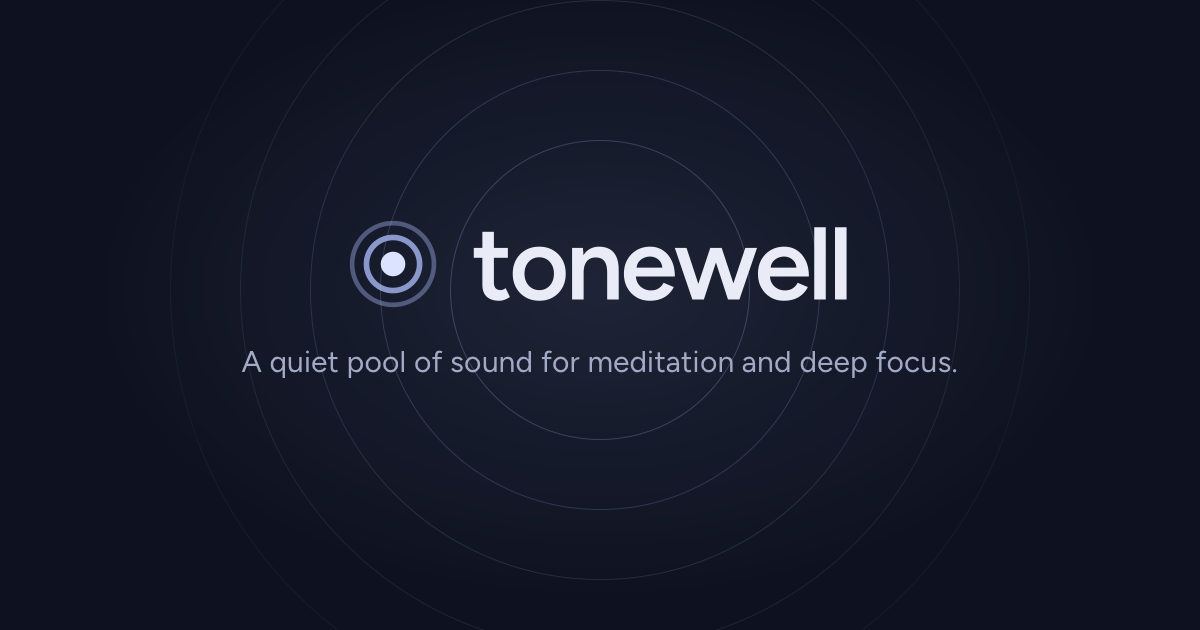
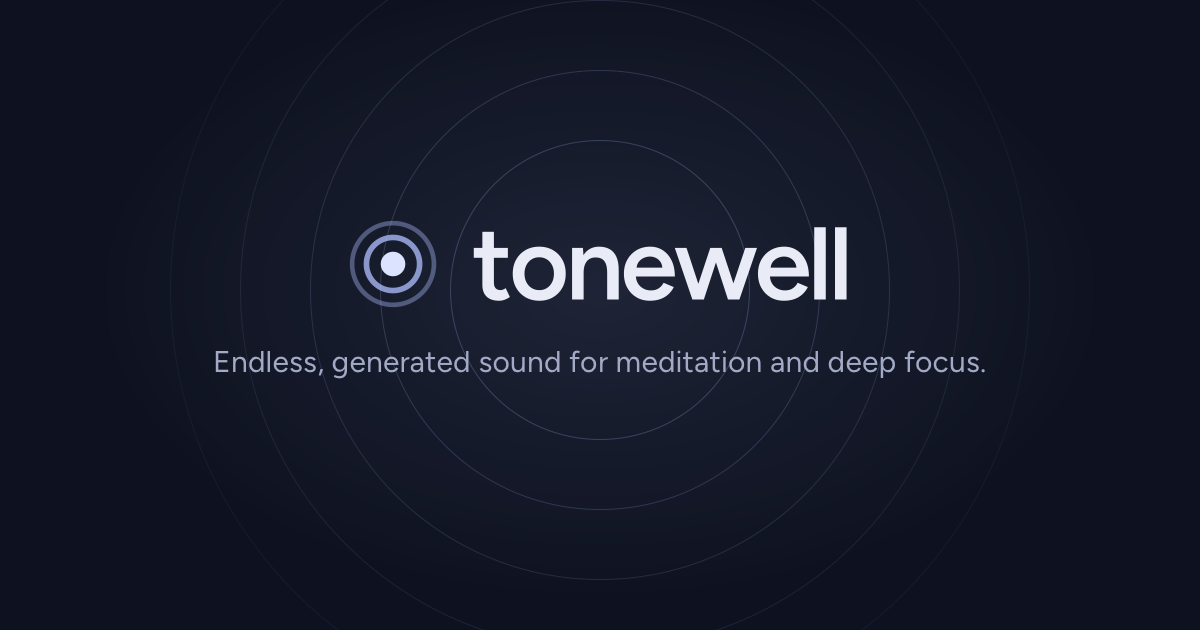
fix(site): plainer, accurate copy and phrase-aware headings
Rewrites the page in plainer words and corrects claims the app doesn't
back up: softening reacts to any microphone in use and is off by
default, headphone and media keys work only while a session plays, the
Learn quote cites six sources, bells aren't sparse and wind isn't one
slow gust. Adds the headphones-out behavior, the visuals' flicker limit,
the contact address and "Not a medical device".

Headings break between phrases instead of mid-phrase. The mock players
are one labelled image each, so screen readers and the keyboard skip
their dead buttons. The beats section collapses to one column on
phones, and the cards fit down to 320 px.

Changed region(s): [[0.185, 0.5429, 0.8325, 0.6032]]

diff --git a/site/index.html b/site/index.html
@@ -3,16 +3,16 @@
 <head>
 <meta charset="utf-8">
 <meta name="viewport" content="width=device-width, initial-scale=1">
-<title>Tonewell: a quiet pool of sound for meditation and deep focus</title>
-<meta name="description" content="Endless drones, rain, bells and a wordless choir, made live on your Mac. For meditation and deep focus. No accounts, nothing streamed.">
+<title>Tonewell: endless, generated sound for meditation and focus</title>
+<meta name="description" content="A Mac app that synthesizes drones, rain, brown noise and bells as you listen, for meditation and deep focus. Open source. No accounts, nothing streamed.">
 <meta name="theme-color" content="#0E1220">
 <link rel="icon" href="assets/tonewell-mark.svg" type="image/svg+xml">
 <link rel="canonical" href="https://tonewell.space/">
 <meta property="og:type" content="website">
 <meta property="og:url" content="https://tonewell.space/">
 <meta property="og:site_name" content="Tonewell">
-<meta property="og:title" content="Tonewell: a quiet pool of sound">
-<meta property="og:description" content="Endless drones, rain, bells and a wordless choir, made live on your Mac. For meditation and deep focus.">
+<meta property="og:title" content="Tonewell: sound for when silence won’t do">
+<meta property="og:description" content="Drones, rain, brown noise, bells and a wordless choir, synthesized on your Mac as you listen. For meditation and deep focus.">
 <meta property="og:image" content="https://tonewell.space/og.png">
 <meta property="og:image:width" content="1200">
 <meta property="og:image:height" content="630">
@@ -25,44 +25,44 @@
 <body class="tw">
 <div class="wrap">
 <header class="nav"><a href="/" aria-label="Tonewell home"><img src="assets/tonewell-lockup.svg" alt="tonewell" style="height:30px;display:block"></a>
-<nav class="nav__links" aria-label="Site"><a href="#how">How it works</a><a href="#science">The science</a><a class="cta cta--sm" href="#download">Coming soon</a></nav></header>
+<nav class="nav__links" aria-label="Site"><a href="#how">How it works</a><a href="#science">The evidence</a><a class="cta cta--sm" href="#download">Coming soon</a></nav></header>
 
 <main>
 <section class="hero">
 <div>
 <span class="eyebrow-s">For meditation and deep focus · macOS</span>
-<h1>A quiet pool of sound. Touch it once.</h1>
-<p>Drones, rain, bells and a wordless choir, made live on your Mac and never quite the same twice. Press the light and close your eyes.</p>
-<div class="hero__ctas"><button class="cta" type="button" data-taste aria-describedby="taste-note"><svg class="icon icon--fill taste__play" viewBox="0 0 24 24" aria-hidden="true"><path d="M8.5 5.5v13l10-6.5z"/></svg><svg class="icon icon--fill taste__stop" viewBox="0 0 24 24" aria-hidden="true"><rect x="7" y="7" width="10" height="10" rx="2"/></svg><span data-taste-label>Hear a taste</span></button><a class="cta cta--ghost" href="#download">Coming soon for Mac</a></div>
-<div class="hero__note" id="taste-note"><svg class="icon" viewBox="0 0 24 24" aria-hidden="true"><path d="M4.5 15v-3a7.5 7.5 0 0 1 15 0v3"/><rect x="3.5" y="14" width="4" height="6" rx="1.6"/><rect x="16.5" y="14" width="4" height="6" rx="1.6"/></svg>Thirty seconds of Deep Theta, faded in and out. Best with headphones.</div>
+<h1><span class="ph">Sound for when</span> <span class="ph">silence won’t do.</span></h1>
+<p><span class="ph">Drones, rain, bells and a wordless choir,</span> <span class="ph">synthesized on your Mac and never the same twice.</span> <span class="ph">For meditating with a busy mind, and for deep work.</span></p>
+<div class="hero__ctas"><button class="cta" type="button" data-taste aria-describedby="taste-note"><svg class="icon icon--fill taste__play" viewBox="0 0 24 24" aria-hidden="true"><path d="M8.5 5.5v13l10-6.5z"/></svg><svg class="icon icon--fill taste__stop" viewBox="0 0 24 24" aria-hidden="true"><rect x="7" y="7" width="10" height="10" rx="2"/></svg><span data-taste-label>Hear a taste</span></button><a class="cta cta--ghost" href="https://github.com/sethatwood/tonewell">Follow on GitHub</a></div>
+<div class="hero__note" id="taste-note"><svg class="icon" viewBox="0 0 24 24" aria-hidden="true"><path d="M4.5 15v-3a7.5 7.5 0 0 1 15 0v3"/><rect x="3.5" y="14" width="4" height="6" rx="1.6"/><rect x="16.5" y="14" width="4" height="6" rx="1.6"/></svg>Thirty seconds of Deep Theta from the real engine, faded in and out. Best with headphones.</div>
 </div>
-<div class="hero__art"><div class="rings" aria-hidden="true"><span style="inset:0px;border-color:rgba(var(--accent-rgb),0.06)"></span><span style="inset:50px;border-color:rgba(var(--accent-rgb),0.09)"></span><span style="inset:100px;border-color:rgba(var(--accent-rgb),0.13)"></span><span style="inset:150px;border-color:rgba(var(--accent-rgb),0.18)"></span></div><div class="player" data-mode="meditate" data-phase="playing" data-tasting="false"><div class="player__main"><button class="ripple" aria-label="14 minutes left"><span class="ripple__glow" aria-hidden="true"></span><span class="ripple__ring" aria-hidden="true"></span><span class="ripple__ring ripple__ring--inner" aria-hidden="true"></span><span class="ripple__core"><span class="ripple__num">14</span><span class="ripple__unit">min left</span></span></button><div class="player__body"><div class="player__top"><button class="eyebrow" aria-haspopup="dialog" aria-label="Meditate: choose a sound">Meditate<svg class="icon" viewBox="0 0 24 24" aria-hidden="true"><path d="M7 10l5 5 5-5"/></svg></button><div class="player__tools"><button class="icon-btn" aria-label="Shape the sound" title="Shape the sound"><svg class="icon" viewBox="0 0 24 24" aria-hidden="true"><circle cx="12" cy="12" r="8.5" stroke-opacity=".45"/><circle cx="12" cy="12" r="4.5"/><circle cx="14.5" cy="9.5" r="1.6" fill="currentColor"/></svg></button><button class="icon-btn" aria-label="Open visuals" title="Open visuals"><svg class="icon" viewBox="0 0 24 24" aria-hidden="true"><circle cx="12" cy="12" r="3.2"/><path d="M12 3.5v2M12 18.5v2M3.5 12h2M18.5 12h2M6 6l1.4 1.4M16.6 16.6 18 18M6 18l1.4-1.4M16.6 7.4 18 6"/></svg></button><button class="icon-btn" aria-label="Field guide" aria-keyshortcuts="?" title="Field guide"><svg class="icon" viewBox="0 0 24 24" aria-hidden="true"><circle cx="12" cy="12" r="8.5"/><path d="M9.7 9.6a2.4 2.4 0 1 1 3.3 2.2c-.6.3-1 .8-1 1.5v.3"/><circle cx="12" cy="16.6" r=".5" fill="currentColor"/></svg></button></div></div><div class="player__name">Deep Theta</div><div class="hint" aria-hidden="true">Ends 07:32, then a bell and a rest.</div><div class="player__actions"><button class="chip chip--action" aria-keyshortcuts="Escape">Wind down<kbd class="kbd">esc</kbd></button><button class="chip " aria-label="Volume 60 percent, on headphones" aria-haspopup="true"><svg class="icon" viewBox="0 0 24 24" aria-hidden="true"><path d="M4.5 15v-3a7.5 7.5 0 0 1 15 0v3"/><rect x="3.5" y="14" width="4" height="6" rx="1.6"/><rect x="16.5" y="14" width="4" height="6" rx="1.6"/></svg><span class="num">60%</span></button></div></div></div></div></div>
+<div class="hero__art"><div class="rings" aria-hidden="true"><span style="inset:0px;border-color:rgba(var(--accent-rgb),0.06)"></span><span style="inset:50px;border-color:rgba(var(--accent-rgb),0.09)"></span><span style="inset:100px;border-color:rgba(var(--accent-rgb),0.13)"></span><span style="inset:150px;border-color:rgba(var(--accent-rgb),0.18)"></span></div><div class="player" data-mode="meditate" data-phase="playing" data-tasting="false" role="img" aria-label="The Tonewell player: Deep Theta, 14 minutes left, ends with a bell and a rest"><div class="player__main" inert aria-hidden="true"><button class="ripple" aria-label="14 minutes left"><span class="ripple__glow" aria-hidden="true"></span><span class="ripple__ring" aria-hidden="true"></span><span class="ripple__ring ripple__ring--inner" aria-hidden="true"></span><span class="ripple__core"><span class="ripple__num">14</span><span class="ripple__unit">min left</span></span></button><div class="player__body"><div class="player__top"><button class="eyebrow" aria-haspopup="dialog" aria-label="Meditate: choose a sound">Meditate<svg class="icon" viewBox="0 0 24 24" aria-hidden="true"><path d="M7 10l5 5 5-5"/></svg></button><div class="player__tools"><button class="icon-btn" aria-label="Shape the sound" title="Shape the sound"><svg class="icon" viewBox="0 0 24 24" aria-hidden="true"><circle cx="12" cy="12" r="8.5" stroke-opacity=".45"/><circle cx="12" cy="12" r="4.5"/><circle cx="14.5" cy="9.5" r="1.6" fill="currentColor"/></svg></button><button class="icon-btn" aria-label="Open visuals" title="Open visuals"><svg class="icon" viewBox="0 0 24 24" aria-hidden="true"><circle cx="12" cy="12" r="3.2"/><path d="M12 3.5v2M12 18.5v2M3.5 12h2M18.5 12h2M6 6l1.4 1.4M16.6 16.6 18 18M6 18l1.4-1.4M16.6 7.4 18 6"/></svg></button><button class="icon-btn" aria-label="Field guide" aria-keyshortcuts="?" title="Field guide"><svg class="icon" viewBox="0 0 24 24" aria-hidden="true"><circle cx="12" cy="12" r="8.5"/><path d="M9.7 9.6a2.4 2.4 0 1 1 3.3 2.2c-.6.3-1 .8-1 1.5v.3"/><circle cx="12" cy="16.6" r=".5" fill="currentColor"/></svg></button></div></div><div class="player__name">Deep Theta</div><div class="hint" aria-hidden="true">Ends 07:32, then a bell and a rest.</div><div class="player__actions"><button class="chip chip--action" aria-keyshortcuts="Escape">Wind down<kbd class="kbd">esc</kbd></button><button class="chip " aria-label="Volume 60 percent, on headphones" aria-haspopup="true"><svg class="icon" viewBox="0 0 24 24" aria-hidden="true"><path d="M4.5 15v-3a7.5 7.5 0 0 1 15 0v3"/><rect x="3.5" y="14" width="4" height="6" rx="1.6"/><rect x="16.5" y="14" width="4" height="6" rx="1.6"/></svg><span class="num">60%</span></button></div></div></div></div></div>
 </section>
 
 <section class="band" id="how">
-<span class="eyebrow-s">Two ways in</span>
-<h2>The same good sound as yesterday, in one press.</h2>
-<p class="lead">Tonewell remembers your sound and your length for each of the two things it is for. Most days there is nothing to decide.</p>
+<span class="eyebrow-s">Two modes</span>
+<h2><span class="ph">One click starts the sound</span> <span class="ph">you used yesterday.</span></h2>
+<p class="lead">Meditate and Focus each remember their own sound, length and beat. Most days there is nothing to decide.</p>
 <div class="two">
-<div class="card"><div class="player" data-mode="meditate" data-phase="ready"><div class="player__main"><button class="ripple" aria-label="Start"><span class="ripple__glow" aria-hidden="true"></span><span class="ripple__ring" aria-hidden="true"></span><span class="ripple__ring ripple__ring--inner" aria-hidden="true"></span><span class="ripple__core"><svg class="icon icon--fill" viewBox="0 0 24 24" aria-hidden="true"><path d="M8.5 5.5v13l10-6.5z"/></svg></span></button><div class="player__body"><div class="player__top"><button class="eyebrow" aria-haspopup="dialog" aria-label="Meditate: choose a sound">Meditate<svg class="icon" viewBox="0 0 24 24" aria-hidden="true"><path d="M7 10l5 5 5-5"/></svg></button><div class="player__tools"><button class="icon-btn" aria-label="Shape the sound" title="Shape the sound"><svg class="icon" viewBox="0 0 24 24" aria-hidden="true"><circle cx="12" cy="12" r="8.5" stroke-opacity=".45"/><circle cx="12" cy="12" r="4.5"/><circle cx="14.5" cy="9.5" r="1.6" fill="currentColor"/></svg></button><button class="icon-btn" aria-label="Open visuals" title="Open visuals"><svg class="icon" viewBox="0 0 24 24" aria-hidden="true"><circle cx="12" cy="12" r="3.2"/><path d="M12 3.5v2M12 18.5v2M3.5 12h2M18.5 12h2M6 6l1.4 1.4M16.6 16.6 18 18M6 18l1.4-1.4M16.6 7.4 18 6"/></svg></button><button class="icon-btn" aria-label="Field guide" aria-keyshortcuts="?" title="Field guide"><svg class="icon" viewBox="0 0 24 24" aria-hidden="true"><circle cx="12" cy="12" r="8.5"/><path d="M9.7 9.6a2.4 2.4 0 1 1 3.3 2.2c-.6.3-1 .8-1 1.5v.3"/><circle cx="12" cy="16.6" r=".5" fill="currentColor"/></svg></button></div></div><div class="player__name">Deep Theta</div><div class="hint" aria-hidden="true">Wandering drone, breath, slow bells.</div><div class="player__actions"><button class="chip "><svg class="icon" viewBox="0 0 24 24" aria-hidden="true"><circle cx="12" cy="12" r="8.5"/><path d="M12 7.5V12l3 2"/></svg><span class="num">20</span> min</button><button class="chip "><svg class="icon" viewBox="0 0 24 24" aria-hidden="true"><path d="M3 12c2-5 4-5 6 0s4 5 6 0 4-5 6 0"/></svg>Settle</button></div></div></div></div><h3>Meditate</h3><p>A slowly changing bed that is not musical enough to follow, so a restless mind has somewhere soft to rest while the practice does the work. A single bell at the end, a couple of minutes in a low hum, then a slow fade.</p></div>
-<div class="card" data-mode="focus"><div class="player" data-mode="focus" data-phase="playing"><div class="player__main"><button class="ripple" aria-label="31 minutes to the break"><span class="ripple__glow" aria-hidden="true"></span><span class="ripple__ring" aria-hidden="true"></span><span class="ripple__ring ripple__ring--inner" aria-hidden="true"></span><span class="ripple__core"><span class="ripple__num">31</span><span class="ripple__unit">to break</span></span></button><div class="player__body"><div class="player__top"><span class="eyebrow">Focus · block 2</span><div class="player__tools"><button class="icon-btn" aria-label="Shape the sound" title="Shape the sound"><svg class="icon" viewBox="0 0 24 24" aria-hidden="true"><circle cx="12" cy="12" r="8.5" stroke-opacity=".45"/><circle cx="12" cy="12" r="4.5"/><circle cx="14.5" cy="9.5" r="1.6" fill="currentColor"/></svg></button><button class="icon-btn" aria-label="Open visuals" title="Open visuals"><svg class="icon" viewBox="0 0 24 24" aria-hidden="true"><circle cx="12" cy="12" r="3.2"/><path d="M12 3.5v2M12 18.5v2M3.5 12h2M18.5 12h2M6 6l1.4 1.4M16.6 16.6 18 18M6 18l1.4-1.4M16.6 7.4 18 6"/></svg></button><button class="icon-btn" aria-label="Field guide" aria-keyshortcuts="?" title="Field guide"><svg class="icon" viewBox="0 0 24 24" aria-hidden="true"><circle cx="12" cy="12" r="8.5"/><path d="M9.7 9.6a2.4 2.4 0 1 1 3.3 2.2c-.6.3-1 .8-1 1.5v.3"/><circle cx="12" cy="16.6" r=".5" fill="currentColor"/></svg></button></div></div><div class="player__name">Rain Room</div><div class="hint" aria-hidden="true">Since 09:40. 50 on, 10 off.</div><div class="player__actions"><button class="chip chip--action" aria-keyshortcuts="Escape">Wind down<kbd class="kbd">esc</kbd></button><button class="chip " aria-label="Volume 60 percent, on headphones" aria-haspopup="true"><svg class="icon" viewBox="0 0 24 24" aria-hidden="true"><path d="M4.5 15v-3a7.5 7.5 0 0 1 15 0v3"/><rect x="3.5" y="14" width="4" height="6" rx="1.6"/><rect x="16.5" y="14" width="4" height="6" rx="1.6"/></svg><span class="num">60%</span></button></div></div></div></div><h3>Focus</h3><p>Brown noise, rain or a warm drone for hours, with nothing on screen asking for attention. Optional work blocks with short breaks, and it softens itself when you join a call.</p></div>
+<div class="card"><div class="player" data-mode="meditate" data-phase="ready" role="img" aria-label="The player ready to start Deep Theta for 20 minutes, with the Settle beat"><div class="player__main" inert aria-hidden="true"><button class="ripple" aria-label="Start"><span class="ripple__glow" aria-hidden="true"></span><span class="ripple__ring" aria-hidden="true"></span><span class="ripple__ring ripple__ring--inner" aria-hidden="true"></span><span class="ripple__core"><svg class="icon icon--fill" viewBox="0 0 24 24" aria-hidden="true"><path d="M8.5 5.5v13l10-6.5z"/></svg></span></button><div class="player__body"><div class="player__top"><button class="eyebrow" aria-haspopup="dialog" aria-label="Meditate: choose a sound">Meditate<svg class="icon" viewBox="0 0 24 24" aria-hidden="true"><path d="M7 10l5 5 5-5"/></svg></button><div class="player__tools"><button class="icon-btn" aria-label="Shape the sound" title="Shape the sound"><svg class="icon" viewBox="0 0 24 24" aria-hidden="true"><circle cx="12" cy="12" r="8.5" stroke-opacity=".45"/><circle cx="12" cy="12" r="4.5"/><circle cx="14.5" cy="9.5" r="1.6" fill="currentColor"/></svg></button><button class="icon-btn" aria-label="Open visuals" title="Open visuals"><svg class="icon" viewBox="0 0 24 24" aria-hidden="true"><circle cx="12" cy="12" r="3.2"/><path d="M12 3.5v2M12 18.5v2M3.5 12h2M18.5 12h2M6 6l1.4 1.4M16.6 16.6 18 18M6 18l1.4-1.4M16.6 7.4 18 6"/></svg></button><button class="icon-btn" aria-label="Field guide" aria-keyshortcuts="?" title="Field guide"><svg class="icon" viewBox="0 0 24 24" aria-hidden="true"><circle cx="12" cy="12" r="8.5"/><path d="M9.7 9.6a2.4 2.4 0 1 1 3.3 2.2c-.6.3-1 .8-1 1.5v.3"/><circle cx="12" cy="16.6" r=".5" fill="currentColor"/></svg></button></div></div><div class="player__name">Deep Theta</div><div class="hint" aria-hidden="true">Wandering drone, breath, slow bells.</div><div class="player__actions"><button class="chip "><svg class="icon" viewBox="0 0 24 24" aria-hidden="true"><circle cx="12" cy="12" r="8.5"/><path d="M12 7.5V12l3 2"/></svg><span class="num">20</span> min</button><button class="chip "><svg class="icon" viewBox="0 0 24 24" aria-hidden="true"><path d="M3 12c2-5 4-5 6 0s4 5 6 0 4-5 6 0"/></svg>Settle</button></div></div></div></div><h3>Meditate</h3><p>It changes slowly and never becomes a tune you’d follow, which gives your attention somewhere to land while the mantra does the work. When the timer ends you get one bell and a couple of minutes of low hum, then a slow fade to silence.</p></div>
+<div class="card" data-mode="focus"><div class="player" data-mode="focus" data-phase="playing" role="img" aria-label="The player in Focus: Rain Room, block 2, 31 minutes to the break"><div class="player__main" inert aria-hidden="true"><button class="ripple" aria-label="31 minutes to the break"><span class="ripple__glow" aria-hidden="true"></span><span class="ripple__ring" aria-hidden="true"></span><span class="ripple__ring ripple__ring--inner" aria-hidden="true"></span><span class="ripple__core"><span class="ripple__num">31</span><span class="ripple__unit">to break</span></span></button><div class="player__body"><div class="player__top"><span class="eyebrow">Focus · block 2</span><div class="player__tools"><button class="icon-btn" aria-label="Shape the sound" title="Shape the sound"><svg class="icon" viewBox="0 0 24 24" aria-hidden="true"><circle cx="12" cy="12" r="8.5" stroke-opacity=".45"/><circle cx="12" cy="12" r="4.5"/><circle cx="14.5" cy="9.5" r="1.6" fill="currentColor"/></svg></button><button class="icon-btn" aria-label="Open visuals" title="Open visuals"><svg class="icon" viewBox="0 0 24 24" aria-hidden="true"><circle cx="12" cy="12" r="3.2"/><path d="M12 3.5v2M12 18.5v2M3.5 12h2M18.5 12h2M6 6l1.4 1.4M16.6 16.6 18 18M6 18l1.4-1.4M16.6 7.4 18 6"/></svg></button><button class="icon-btn" aria-label="Field guide" aria-keyshortcuts="?" title="Field guide"><svg class="icon" viewBox="0 0 24 24" aria-hidden="true"><circle cx="12" cy="12" r="8.5"/><path d="M9.7 9.6a2.4 2.4 0 1 1 3.3 2.2c-.6.3-1 .8-1 1.5v.3"/><circle cx="12" cy="16.6" r=".5" fill="currentColor"/></svg></button></div></div><div class="player__name">Rain Room</div><div class="hint" aria-hidden="true">Since 09:40. 50 on, 10 off.</div><div class="player__actions"><button class="chip chip--action" aria-keyshortcuts="Escape">Wind down<kbd class="kbd">esc</kbd></button><button class="chip " aria-label="Volume 60 percent, on headphones" aria-haspopup="true"><svg class="icon" viewBox="0 0 24 24" aria-hidden="true"><path d="M4.5 15v-3a7.5 7.5 0 0 1 15 0v3"/><rect x="3.5" y="14" width="4" height="6" rx="1.6"/><rect x="16.5" y="14" width="4" height="6" rx="1.6"/></svg><span class="num">60%</span></button></div></div></div></div><h3>Focus</h3><p>Brown noise, rain, waves or a steady drone, for as long as you work. You can add work blocks with short breaks, and have it turn down whenever a microphone is in use, as on a call.</p></div>
 </div>
 </section>
 
 <section class="band">
-<span class="eyebrow-s">What's in the water</span>
-<h2>Ten kinds of sound, all generated. Nothing recorded.</h2>
-<p class="lead">Each preset is a few of these, mixed with care. Add one, take one away, or leave it exactly as made.</p>
-<div class="waters"><div class="water"><i style="background:var(--layer-drone);color:var(--layer-drone)"></i><b>Drone</b><span>A warm, slowly turning chord that leans to a new note every minute or so.</span></div><div class="water"><i style="background:var(--layer-breath);color:var(--layer-breath)"></i><b>Breath</b><span>An airy rise and fall, far behind the drone.</span></div><div class="water"><i style="background:var(--layer-bells);color:var(--layer-bells)"></i><b>Bells</b><span>Sparse, soft, from different sides, each with a faint echo.</span></div><div class="water"><i style="background:var(--layer-voices);color:var(--layer-voices)"></i><b>Voices</b><span>A wordless choir on oo, ah and mm. No words, ever.</span></div><div class="water"><i style="background:var(--layer-shimmer);color:var(--layer-shimmer)"></i><b>Shimmer</b><span>High glints of light in a large room.</span></div><div class="water"><i style="background:var(--layer-rain);color:var(--layer-rain)"></i><b>Rain</b><span>Fine patter over a soft hiss. Never rhythmic.</span></div><div class="water"><i style="background:var(--layer-ocean);color:var(--layer-ocean)"></i><b>Ocean</b><span>Waves arriving every 8 to 15 seconds and drawing back.</span></div><div class="water"><i style="background:var(--layer-wind);color:var(--layer-wind)"></i><b>Wind</b><span>A slow, wide gust.</span></div><div class="water"><i style="background:var(--layer-noise);color:var(--layer-noise)"></i><b>Noise</b><span>Brown, pink or white. The plainest bed there is.</span></div><div class="water"><i style="background:var(--layer-rise);color:var(--layer-rise)"></i><b>Endless rise</b><span>A tone that seems to climb forever, very slowly.</span></div></div>
+<span class="eyebrow-s">What’s in the water</span>
+<h2><span class="ph">Ten layers, all built</span> <span class="ph">from oscillators and noise.</span></h2>
+<p class="lead">Each of the twelve built-in sounds uses a few of them. Add or remove any layer, or leave the mix as it is.</p>
+<div class="waters"><div class="water"><i style="background:var(--layer-drone);color:var(--layer-drone)"></i><b>Drone</b><span>A warm chord that glides to a nearby note about once a minute.</span></div><div class="water"><i style="background:var(--layer-breath);color:var(--layer-breath)"></i><b>Breath</b><span>Filtered noise that rises and falls like slow breathing.</span></div><div class="water"><i style="background:var(--layer-bells);color:var(--layer-bells)"></i><b>Bells</b><span>Struck at random, always in tune with the drone, each with an echo.</span></div><div class="water"><i style="background:var(--layer-voices);color:var(--layer-voices)"></i><b>Voices</b><span>A synthesized choir on oo, ah and mm, so it never competes with a mantra.</span></div><div class="water"><i style="background:var(--layer-shimmer);color:var(--layer-shimmer)"></i><b>Shimmer</b><span>Faint high tones that swell and fade over several seconds.</span></div><div class="water"><i style="background:var(--layer-rain);color:var(--layer-rain)"></i><b>Rain</b><span>Fine patter over a soft hiss. Never rhythmic.</span></div><div class="water"><i style="background:var(--layer-ocean);color:var(--layer-ocean)"></i><b>Ocean</b><span>Waves arriving every 8 to 15 seconds and drawing back.</span></div><div class="water"><i style="background:var(--layer-wind);color:var(--layer-wind)"></i><b>Wind</b><span>Gusts that rise and fall every few seconds, separately in each ear.</span></div><div class="water"><i style="background:var(--layer-noise);color:var(--layer-noise)"></i><b>Noise</b><span>Brown, pink or white. The plainest bed there is.</span></div><div class="water"><i style="background:var(--layer-rise);color:var(--layer-rise)"></i><b>Endless rise</b><span>A tone that seems to climb forever, an octave every four minutes.</span></div></div>
 </section>
 
 <section class="band">
 <div class="split">
 <div>
 <span class="eyebrow-s">Shaping</span>
-<h2>Tune it like a music box, not a mixer.</h2>
-<p class="lead" style="margin-bottom:24px">Drag one point: warmer or brighter, stiller or wandering. The middle is the sound as made. Want more? There are about seventy settings underneath, one tap away and never in the way.</p>
-<ul class="list"><li><span class="n">1</span><span><b>Hover anything, and it explains itself</b>A line under the name says what a control does, right where you are looking.</span></li><li><span class="n">2</span><span><b>More like this</b>Nudges every hidden setting a little, like shaking a music box.</span></li><li><span class="n">3</span><span><b>Keep it as yours</b>Name it and it is there tomorrow.</span></li></ul>
+<h2><span class="ph">Drag one point</span> <span class="ph">to change the whole sound.</span></h2>
+<p class="lead" style="margin-bottom:24px">Left is warmer, right is brighter, up wanders more and down holds still. The center is the sound as made. About seventy finer settings sit behind it if you want them.</p>
+<ul class="list"><li><span class="n">1</span><span><b>A one-line hint for every control</b>Hover over a control, or tab to it, and a plain sentence under the sound’s name says what it does.</span></li><li><span class="n">2</span><span><b>More like this</b>Moves every fine setting a little at random, for a close variation on what’s playing.</span></li><li><span class="n">3</span><span><b>Keep as my sound</b>Give it a name and it’s listed under Yours, ready next time.</span></li></ul>
 </div>
 <div class="player" data-mode="meditate" style="padding:20px"><div class="pad" role="img" aria-label="The feel pad: warmer to brighter across, still to wandering up and down" style="--x:.62;--y:.36;--pad-w:338px;--pad-h:240px">
 <span class="pad__axis-x"></span><span class="pad__axis-y"></span><span class="pad__home"></span><span class="pad__home-label">as made</span>
@@ -73,33 +73,33 @@
 </section>
 
 <section class="band" id="science">
-<div class="split" style="grid-template-columns:minmax(0,1fr) minmax(0,1fr)">
+<div class="split split--even">
 <div>
-<span class="eyebrow-s">Honest about beats</span>
-<h2>Named by what people use them for. Not by what they promise.</h2>
-<p class="lead" style="margin-bottom:20px">Binaural beats are a soft pulse your brain makes when each ear hears a slightly different tone. Tonewell offers them by purpose (Settle, Theta, Deep rest, Calm focus, Alert work) and says plainly that these are common uses, not proven effects.</p>
-<p style="font-size:15px;color:var(--ink-2);line-height:1.6;margin:0">The app's Learn section has nine short, cited pieces on beats, meditation, focus and safety, including the studies that found nothing.</p>
+<span class="eyebrow-s">Binaural beats</span>
+<h2><span class="ph">Optional beats,</span> <span class="ph">and a plain account</span> <span class="ph">of the evidence.</span></h2>
+<p class="lead" style="margin-bottom:20px">A binaural beat is a pulse your brain creates when each ear hears a slightly different tone. Tonewell names its beats by what people commonly use them for (Settle, Theta, Deep rest, Calm focus, Alert work) and says plainly that these are not proven effects. ⌘B turns the beat on or off.</p>
+<p style="font-size:15px;color:var(--ink-2);line-height:1.6;margin:0">Learn, inside the app, has nine short articles on beats, meditation, focus and safety. Each lists its sources, including studies that found no effect.</p>
 </div>
-<div class="quote">Binaural beats might help a little, especially if you enjoy them. They won’t override your brain or replace treatment that works for you. Think of them as one more pleasant layer in a sound you like settling into, and that’s a perfectly good reason to use them.<small>From “The evidence, honestly” in Tonewell’s Learn section, which cites two meta-analyses, a 2023 review of 14 EEG studies and several small trials.</small></div>
+<div class="quote">Binaural beats might help a little, especially if you enjoy them. They won’t override your brain or replace treatment that works for you. Think of them as one more pleasant layer in a sound you like settling into, and that’s a perfectly good reason to use them.<small>From “The evidence, honestly” in Tonewell’s Learn section, which cites six sources, among them two meta-analyses and a 2023 review of 14 EEG studies.</small></div>
 </div>
 </section>
 
 <section class="band">
-<span class="eyebrow-s">Quiet by design</span>
-<h2>Made to be trusted with your eyes closed.</h2>
-<div class="principles" style="margin-top:36px"><div class="principle"><svg class="icon" viewBox="0 0 24 24" aria-hidden="true"><path d="M4 12c2.7-1.8 5.3-1.8 8 0s5.3 1.8 8 0"/></svg><b>Never startles</b><span>Every change fades. No sudden sound, no bright screen when your eyes open, no pop-ups mid-session.</span></div><div class="principle"><svg class="icon" viewBox="0 0 24 24" aria-hidden="true"><path d="M4.5 15v-3a7.5 7.5 0 0 1 15 0v3"/><rect x="3.5" y="14" width="4" height="6" rx="1.6"/><rect x="16.5" y="14" width="4" height="6" rx="1.6"/></svg><b>Eyes-closed control</b><span>Start, wind down and end with the headphone button, Esc or the menu bar. No window needed.</span></div><div class="principle"><svg class="icon" viewBox="0 0 24 24" aria-hidden="true"><path d="M7 4.5h10v15l-5-3.5-5 3.5z"/></svg><b>Stays on your Mac</b><span>No accounts, no analytics, nothing streamed. Every sound is made live on the Mac.</span></div><div class="principle"><svg class="icon" viewBox="0 0 24 24" aria-hidden="true"><path d="M12 6.5C10 5 7.5 4.5 4 4.8v13c3.5-.3 6 .2 8 1.7 2-1.5 4.5-2 8-1.7v-13c-3.5-.3-6 .2-8 1.7z"/><path d="M12 6.5v13"/></svg><b>Honest</b><span>Beats are named by what people use them for, and Learn cites real studies, including the ones that found nothing.</span></div></div>
+<span class="eyebrow-s">Ground rules</span>
+<h2><span class="ph">Built to run</span> <span class="ph">while your eyes are closed.</span></h2>
+<div class="principles" style="margin-top:36px"><div class="principle"><svg class="icon" viewBox="0 0 24 24" aria-hidden="true"><path d="M4 12c2.7-1.8 5.3-1.8 8 0s5.3 1.8 8 0"/></svg><b>Never startles</b><span>Sound fades in and out, and nothing pops up mid-session. If your headphones come out, it goes silent instead of moving to the speakers.</span></div><div class="principle"><svg class="icon" viewBox="0 0 24 24" aria-hidden="true"><path d="M4.5 15v-3a7.5 7.5 0 0 1 15 0v3"/><rect x="3.5" y="14" width="4" height="6" rx="1.6"/><rect x="16.5" y="14" width="4" height="6" rx="1.6"/></svg><b>Eyes-closed control</b><span>While it plays, press your headphones or the play key to wind down, and again to end. Esc does the same in the player.</span></div><div class="principle"><svg class="icon" viewBox="0 0 24 24" aria-hidden="true"><path d="M7 4.5h10v15l-5-3.5-5 3.5z"/></svg><b>Stays on your Mac</b><span>No accounts or analytics, and the app makes no network requests. Your settings and saved sounds stay on your Mac.</span></div><div class="principle"><svg class="icon" viewBox="0 0 24 24" aria-hidden="true"><circle cx="12" cy="12" r="3.2"/><path d="M12 3.5v2M12 18.5v2M3.5 12h2M18.5 12h2M6 6l1.4 1.4M16.6 16.6 18 18M6 18l1.4-1.4M16.6 7.4 18 6"/></svg><b>No flicker</b><span>Visuals are optional and open in their own window. Nothing in them flickers faster than three times a second, and with the window closed nothing is drawn.</span></div></div>
 </section>
 
 <section class="band download" id="download">
 <img src="assets/tonewell-app-icon.svg" alt="">
 <h2 style="margin:0 auto">Tonewell for Mac</h2>
 <p>Coming soon. Open source under the MIT license. Apple silicon, macOS 13 or later.</p>
-<a class="cta cta--ghost" href="https://github.com/sethatwood/tonewell">Follow along on GitHub</a>
+<a class="cta cta--ghost" href="https://github.com/sethatwood/tonewell">Watch for releases on GitHub</a>
 <p style="font-size:13px;color:var(--ink-3)">Headphones recommended. Binaural beats need them; everything else works on speakers.</p>
 </section>
 </main>
 
-<footer><span><img src="assets/tonewell-mark.svg" alt="" style="width:18px;height:18px;vertical-align:-4px;margin-right:8px">tonewell.space</span><span>MIT license · <a href="https://github.com/sethatwood/tonewell">Source</a> · No cookies, no analytics.</span></footer>
+<footer><span><img src="assets/tonewell-mark.svg" alt="" style="width:18px;height:18px;vertical-align:-4px;margin-right:8px">tonewell.space</span><span>MIT license · <a href="https://github.com/sethatwood/tonewell">Source</a> · <a href="mailto:hello@tonewell.space">hello@tonewell.space</a> · No cookies, no analytics · Not a medical device</span></footer>
 </div>
 <script type="module" src="assets/js/site.js"></script>
 </body>

diff --git a/site/assets/site.css b/site/assets/site.css
@@ -56,8 +56,10 @@ section.band { padding: 88px 0; border-top: 1px solid var(--line); }
 .download p { margin: 0; color: var(--ink-2); font-size: 15px; }
 footer { border-top: 1px solid var(--line); padding: 32px 0 48px; font-size: 13px; color: var(--ink-3); display: flex; justify-content: space-between; gap: 20px; flex-wrap: wrap; }
 footer a { color: var(--ink-2); text-decoration: none; }
+.split--even { grid-template-columns: minmax(0, 1fr) minmax(0, 1fr); }
 @media (max-width: 900px) {
-  .hero, .split, .two { grid-template-columns: 1fr; }
+  .hero, .split, .split--even, .two { grid-template-columns: 1fr; }
+  .hero p .ph { display: inline; }
   .waters { grid-template-columns: repeat(2, minmax(0, 1fr)); }
   .principles { grid-template-columns: repeat(2, minmax(0, 1fr)); }
   .hero__art { height: 360px; }
@@ -69,8 +71,19 @@ footer a { color: var(--ink-2); text-decoration: none; }
   .card { padding: 20px; }
   .principles, .waters { grid-template-columns: 1fr; }
 }
+@media (max-width: 380px) {
+  .hero__art .player, .card .player, .split > .player { zoom: 0.76; }
+  .card { padding: 14px; }
+}
+@media (max-width: 340px) {
+  .hero__art .player, .card .player, .split > .player { zoom: 0.66; }
+}
 
-/* Hear a taste: the button swaps play for stop without changing width, and the hero light breathes only while it plays. */
+/* Headings break between phrases (.ph), never inside one unless the phrase alone is too wide. */
+.ph { display: inline-block; }
+p, li { text-wrap: pretty; }
+
+/* Hear a taste:the button swaps play for stop without changing width, and the hero light breathes only while it plays. */
 [data-taste] { min-width: 10em; justify-content: center; }
 .taste__stop { display: none; }
 [data-taste][data-playing="true"] .taste__play { display: none; }
